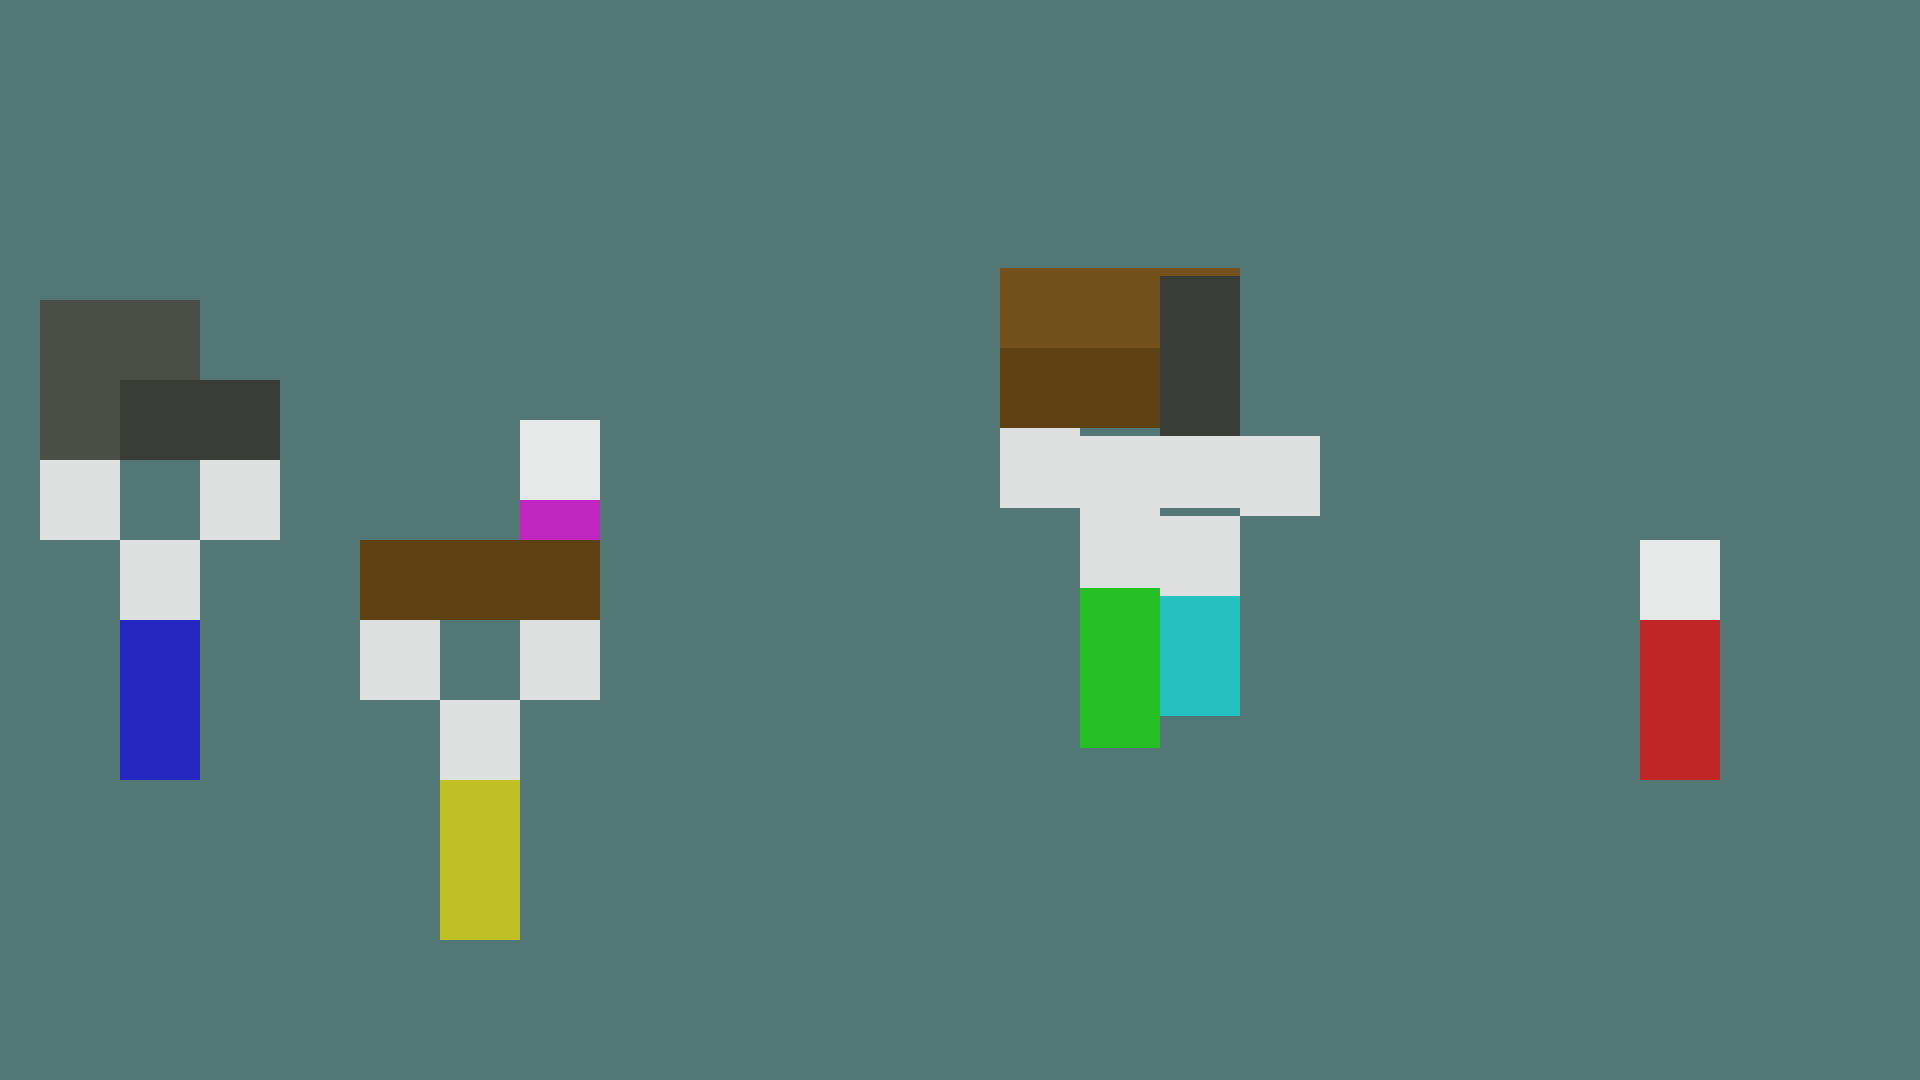
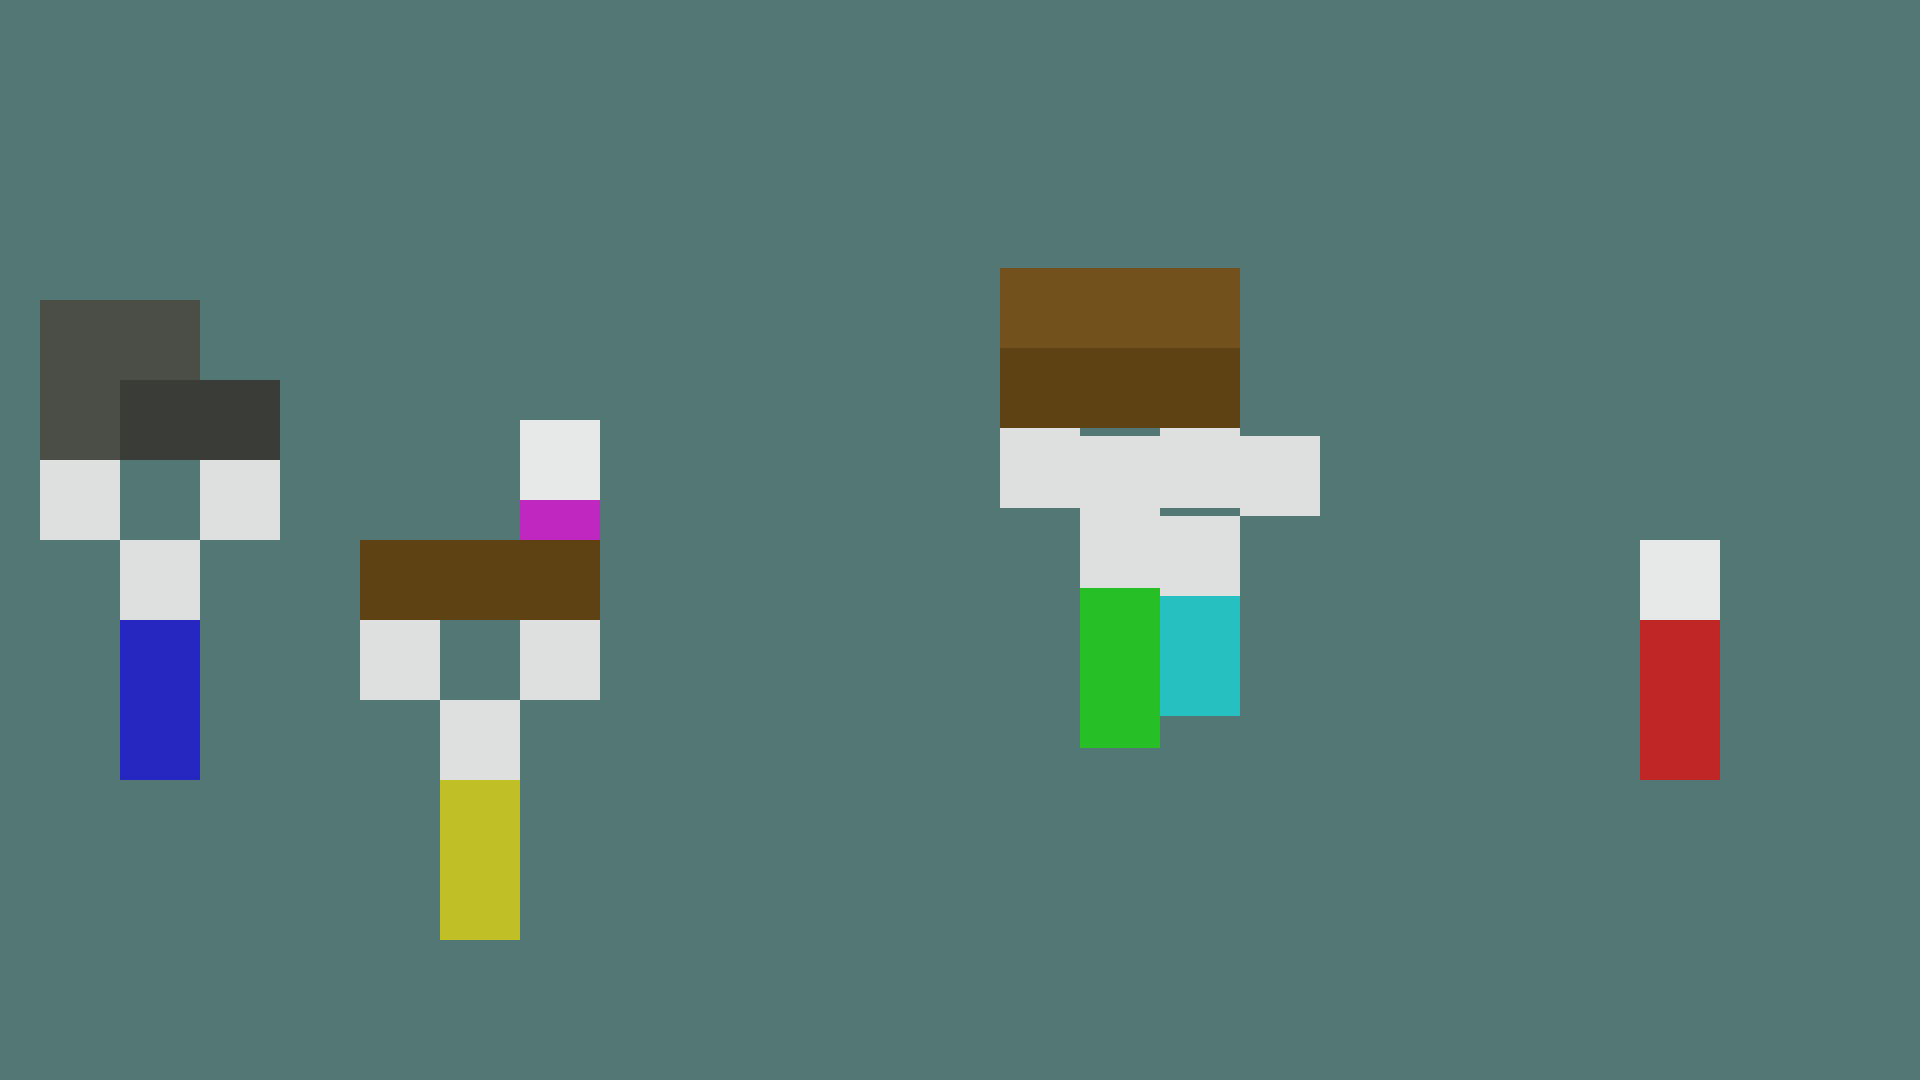
Second review round: movers go into a band by height, buckets are made on first use
- A mover is put into its band by height when it comes in or is placed. A pair that walks down together no longer swaps front and back, and a standing pair is drawn by height whichever was placed first.
- A mover bucket is only made when its first mover comes: 1.4 MB and 1.5 ms for the 100,000 cell world, down from 6.3 MB and 5.3 ms.
- cells, atlas and the art scale of BatchRows, and the numbers of BatchCells, log an error on a write.
- The pixel comparison gives the jam picture its own verdict. same_band now matches: 0 pixels.
- Wording in the design page, the READMEs and the shader include.

Changed region(s): [[0.5938, 0.2444, 0.6562, 0.4278]]

diff --git a/addons/sprite_batch/README.md b/addons/sprite_batch/README.md
@@ -29,7 +29,8 @@ Nothing is sorted. The order comes from where a sprite is kept.
 - Inside one row a thing is drawn behind everything to its left. A new thing is put in at its place.
 - Movers are slotted in between two rows. A mover is in front of the row above it and behind the row below it.
 - Between two rows the movers are kept in thin bands, one art pixel tall. A mover is in front of every mover in a band above it. So a lower mover is in front of a higher one, as when the jam game sorted them by height.
-- Two movers in the same thin band are less than one art pixel apart in height. They are drawn in the order they came into the band: first by column, left to right, then by arrival. That order only changes when one of the two moves to another band or column.
+- Two movers in the same thin band are less than one art pixel apart in height. They are drawn first by column, left to right. Inside a column a mover is put in by height when it comes into the band or is placed: behind the lower ones, in front of the higher ones. So a pair that walks down or up together keeps the lower one in front, and a standing pair is drawn by height whichever was placed first.
+- Nothing is sorted after that. Two movers in one band can be in the wrong order for a while when one of them changed height inside the band, or when they stand on two sides of a column line. The error is less than one art pixel deep.
 - A row is only rebuilt when one of its own things is added, changed or removed. No script runs per thing per frame.
 
 ## Only what is on screen
@@ -39,7 +40,7 @@ Nothing is sorted. The order comes from where a sprite is kept.
 - Movers are also grouped in columns, 960 pixels wide. Columns off screen are left out.
 - A row is still sent when one of its things is tall enough to reach the screen.
 - A mover band is sent when a mover in it could reach the screen. A meeple is a bit taller than one row, so its bands reach a little more than one row below the screen.
-- In a frame where no row changed, `move_movers` was not called and the camera did not move, nothing is sent.
+- In a frame where no row changed, `move_movers` was not called and the camera did not move, nothing is sent. A change to a mover's look, place or count is sent too.
 - In every other frame the sprites on screen are put together again and sent. Whole rows are copied as they are, so this costs little, but it does happen every frame while meeples move.
 
 ## Finding the thing under the mouse
@@ -61,6 +62,7 @@ var tree := atlas.add_file(&"tree", "res://path/to/sheet.png", Rect2i(37, 2, 6, 
 atlas.build()
 
 # The grid numbers come from the game: step, slant, row height, cell middle, origin.
+# The numbers in this example are sample values, not the game's grid.
 var cells := BatchCells.new(70.0, 50.0, 50.0, Vector2(-5.0, 0.0), Vector2.ZERO)
 var rows := BatchRows.new(cells, atlas, world_rect, 10.0)
 rows.add_thing(thing_id, Vector2i(4, 7), tree, Vector2(0, -3))
@@ -81,7 +83,8 @@ add_child(batch)
 
 The batch has no grid numbers of its own. `BatchCells` is all it knows about the grid, and the game hands the numbers in when it makes one.
 
-- The numbers cannot be changed afterwards. The batch works the places of its sprites out once.
+- The numbers cannot be changed afterwards. The batch works the places of its sprites out once. A write to one of them, or to `cells`, `atlas` or `pixel_scale` of a `BatchRows`, logs an error and changes nothing.
+- A village is moved by moving its `SpriteBatch` node. The view and the mouse position follow the node.
 - Each `BatchRows` needs cell maths that never changes. Do not share one `BatchCells` between two villages that could need different numbers.
 - A point exactly between two cells goes to the cell on the right, or to the cell below, on both sides of zero. That is the rule of the village grid of part #60.
 - For another kind of grid, extend `BatchCells` and override `position_of` and `cell_at`. Rows must stay level lines that are `row_height` apart.
@@ -95,4 +98,6 @@ The batch has no grid numbers of its own. `BatchCells` is all it knows about the
 - A mover outside the world area is still drawn. It is kept with the band and the column at the edge, so it is not left out as tightly.
 - When two things share a cell, such as two drops, the cell finds the newest one. Each is still found by its own picture.
 - The number of a thing must fit in 32 bits, and it cannot be -1.
-- Two movers closer than one art pixel in height are not sorted against each other.
+- Two movers closer than one art pixel in height are put in order once, when one comes into the band. They are not sorted again while they stay in it. A view that wants a meeple put in by height again when it stops can call `place_mover` for it.
+- `batch_clock` is the only clock of a batch shader. `MeepleLook` makes it start again every 1.508 seconds, which is one full bounce. So everything else in the village shader that reads `batch_clock` must also repeat every 1.508 seconds, or it jumps. An effect that runs longer, or at another pace, needs its own time value. Part #62 has to plan for that.
+- Making a `BatchRows` for the 100,000 cell world takes 1.5 ms and 1.4 MB (Apple M3). The table of mover buckets covers the whole world. A bucket itself is only made when its first mover comes.

diff --git a/game/dev/stress/README.md b/game/dev/stress/README.md
@@ -60,7 +60,9 @@ The scene prints a `STRESS_WARNING` when it could not place as many static thing
 - Six meeples cover every carry state: nothing, wood, two wood, stone, two stone, nothing.
 - Each pose is a 1920x1080 picture at zoom 8. It is compared with the jam scene's picture of the same pose.
 - `pictures/meeple_<pose>_reference.png` is the jam scene's picture. It is the reference, so the batch can still be checked after the jam scene is gone.
-- The script holds the number of pixels each pose is expected to differ in. It ends with exit code 0 when no pose differs in more, and with 1 when one does. It prints both numbers.
+- The script holds the number of pixels each pose is expected to differ in. It prints both numbers, and "MORE THAN EXPECTED" for a pose that differs in more.
+- It also checks that the jam scene's own picture still matches the saved reference. On another graphics card it may not. Then the pose line says "REFERENCE DOES NOT MATCH", and that is not the batch's fault.
+- It ends with exit code 0 when both checks pass for every pose, and with 1 when one does not. The last line says which of the two failed.
 - A normal run writes no file. `save=1` writes the batch pictures and the difference pictures. `update=1` also writes the reference pictures again from the jam scene.
 - The jam meeple's script is taken off for the picture, because it needs the old globals. Its numbers are read from it, and its bounce formula is applied by hand.
 
@@ -71,10 +73,11 @@ The scene prints a `STRESS_WARNING` when it could not place as many static thing
 | `walking` | Walking at 0.31 s | 15 |
 | `walking_2` | Walking at 0.9 s | 7 |
 | `walking_late` | Walking at 3,000.4 s, to check the bounce stays exact late in a game | 5 |
-| `same_band` | Two overlapping pairs between the same two row lines | 12,800 |
+| `same_band` | Two overlapping pairs between the same two row lines | 0 |
 
 - The walking poses differ in single pixels on tilted edges. The batch works the tilt out on the graphics card and the jam game on the processor, and the two round a tilted edge a tiny bit differently.
-- `same_band` has one pair 35 pixels apart in height and one pair 4 pixels apart. The first pair matches the jam game. The second pair does not: the two are closer than one art pixel in height, and the batch draws such a pair in the order they came, not by height. The 12,800 pixels are one stone, 1 by 2 art pixels, at zoom 8.
+- `same_band` has one pair 35 pixels apart in height and one pair 4 pixels apart, which is less than one art pixel. In both pairs the lower meeple is put into the batch first. Both pairs match the jam game, because a meeple is put into its band by height.
+- What no picture here shows: two meeples closer than one art pixel in height can be in the wrong order for a while after one of them changed height inside its band, or when they stand on two sides of a column line. See "Limits" in the [addon README](../../../addons/sprite_batch/README.md).
 - The tests in `game/meeples/tests/` check the numbers and a copy of the bounce formula. Only these pictures prove what the shader really draws.
 
 ## The other files

diff --git a/docs/core-design.md b/docs/core-design.md
@@ -153,13 +153,13 @@ Each village is drawn as one batch, in one draw call, in our own order.
 
 - **One image holds every sprite.** Bodies, heads, buildings, trees and drops sit on one atlas, built from the art files. In the jam game a meeple takes two draw calls, because its body and its head are in different files.
 - **A shader draws the meeple:** body colour, head, what it carries, bounce and tilt. It must look exactly like the meeple of the jam game.
-- **Our own order, with no sorting.** Things that stand still are grouped by grid row. Meeples are slotted into the band between two rows.
-- **Static things cost no script time per frame.** A row is only rebuilt when something in it changes.
+- **Our own order, with no sorting.** Things that stand still are grouped by grid row. Meeples are slotted in between two rows, in thin bands.
+- **No script runs per thing per frame.** A row is only rebuilt when something in it changes.
 - **Effects become values the shader reads:** hover outline, flash, squash and the blueprint ghost. This is the effects toolkit.
 - **Clicking uses maths.** The mouse position gives a cell, and the cell gives what stands on it. In the jam game 2,091 cells each carry their own click area.
 - **A picture in front wins the click.** A tall sprite sticks up over the row behind it, so the picture under the mouse is checked first, and only its solid pixels count. Where no picture is hit, the cell decides. Built this way in [#61](https://github.com/Liam-M-Mays/game-jam-2026/issues/61). Liam has not confirmed this rule yet.
 - **Only what is on screen is sent.** Rows off screen are left out, and so are the things and meeples left and right of the screen. While meeples move, what is on screen is put together and sent again every frame. Rows are copied as they are, not rebuilt.
-- **Meeples between two rows are kept in thin bands,** one art pixel tall, so a lower meeple is drawn in front of a higher one with no sorting. Two meeples closer than one art pixel in height are drawn in the order they came. Built this way in [#61](https://github.com/Liam-M-Mays/game-jam-2026/issues/61). Liam has not confirmed this rule yet.
+- **Meeples between two rows are kept in thin bands,** one art pixel tall, so a lower meeple is drawn in front of a higher one with no sorting. Inside one band meeples are drawn first by column, left to right, and inside a column by the height each had when it came into the band. So two meeples closer than one art pixel in height can be in the wrong order for a while. Built this way in [#61](https://github.com/Liam-M-Mays/game-jam-2026/issues/61). Liam has not confirmed this rule yet.
 
 Stress test on an Apple M3, 2026-11-10. Time per frame in milliseconds, with 6,000 static things. 16.7 ms is 60 frames per second.
 
